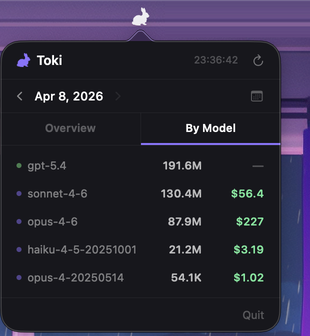
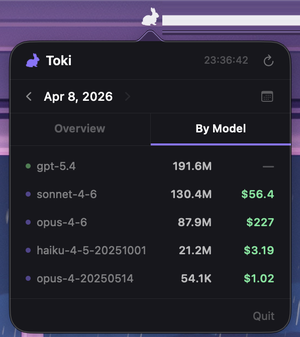
docs: normalize screenshot margins and size
Both screenshots re-cropped with consistent 18px padding around the
popover and resized to the same 300px width for balanced side-by-side
display in README.

diff --git a/README.md b/README.md
@@ -12,9 +12,9 @@ A macOS menu bar app that tracks daily token usage and costs across multiple AI 
 ## Screenshot
 
 <p align="center">
-  <img src="assets/screenshot_overview.png" width="280" alt="Overview tab" />
-  &nbsp;&nbsp;&nbsp;&nbsp;
-  <img src="assets/screenshot.png" width="310" alt="By Model tab" />
+  <img src="assets/screenshot_overview.png" width="300" alt="Overview tab" />
+  &nbsp;&nbsp;&nbsp;
+  <img src="assets/screenshot.png" width="300" alt="By Model tab" />
 </p>
 
 ---
